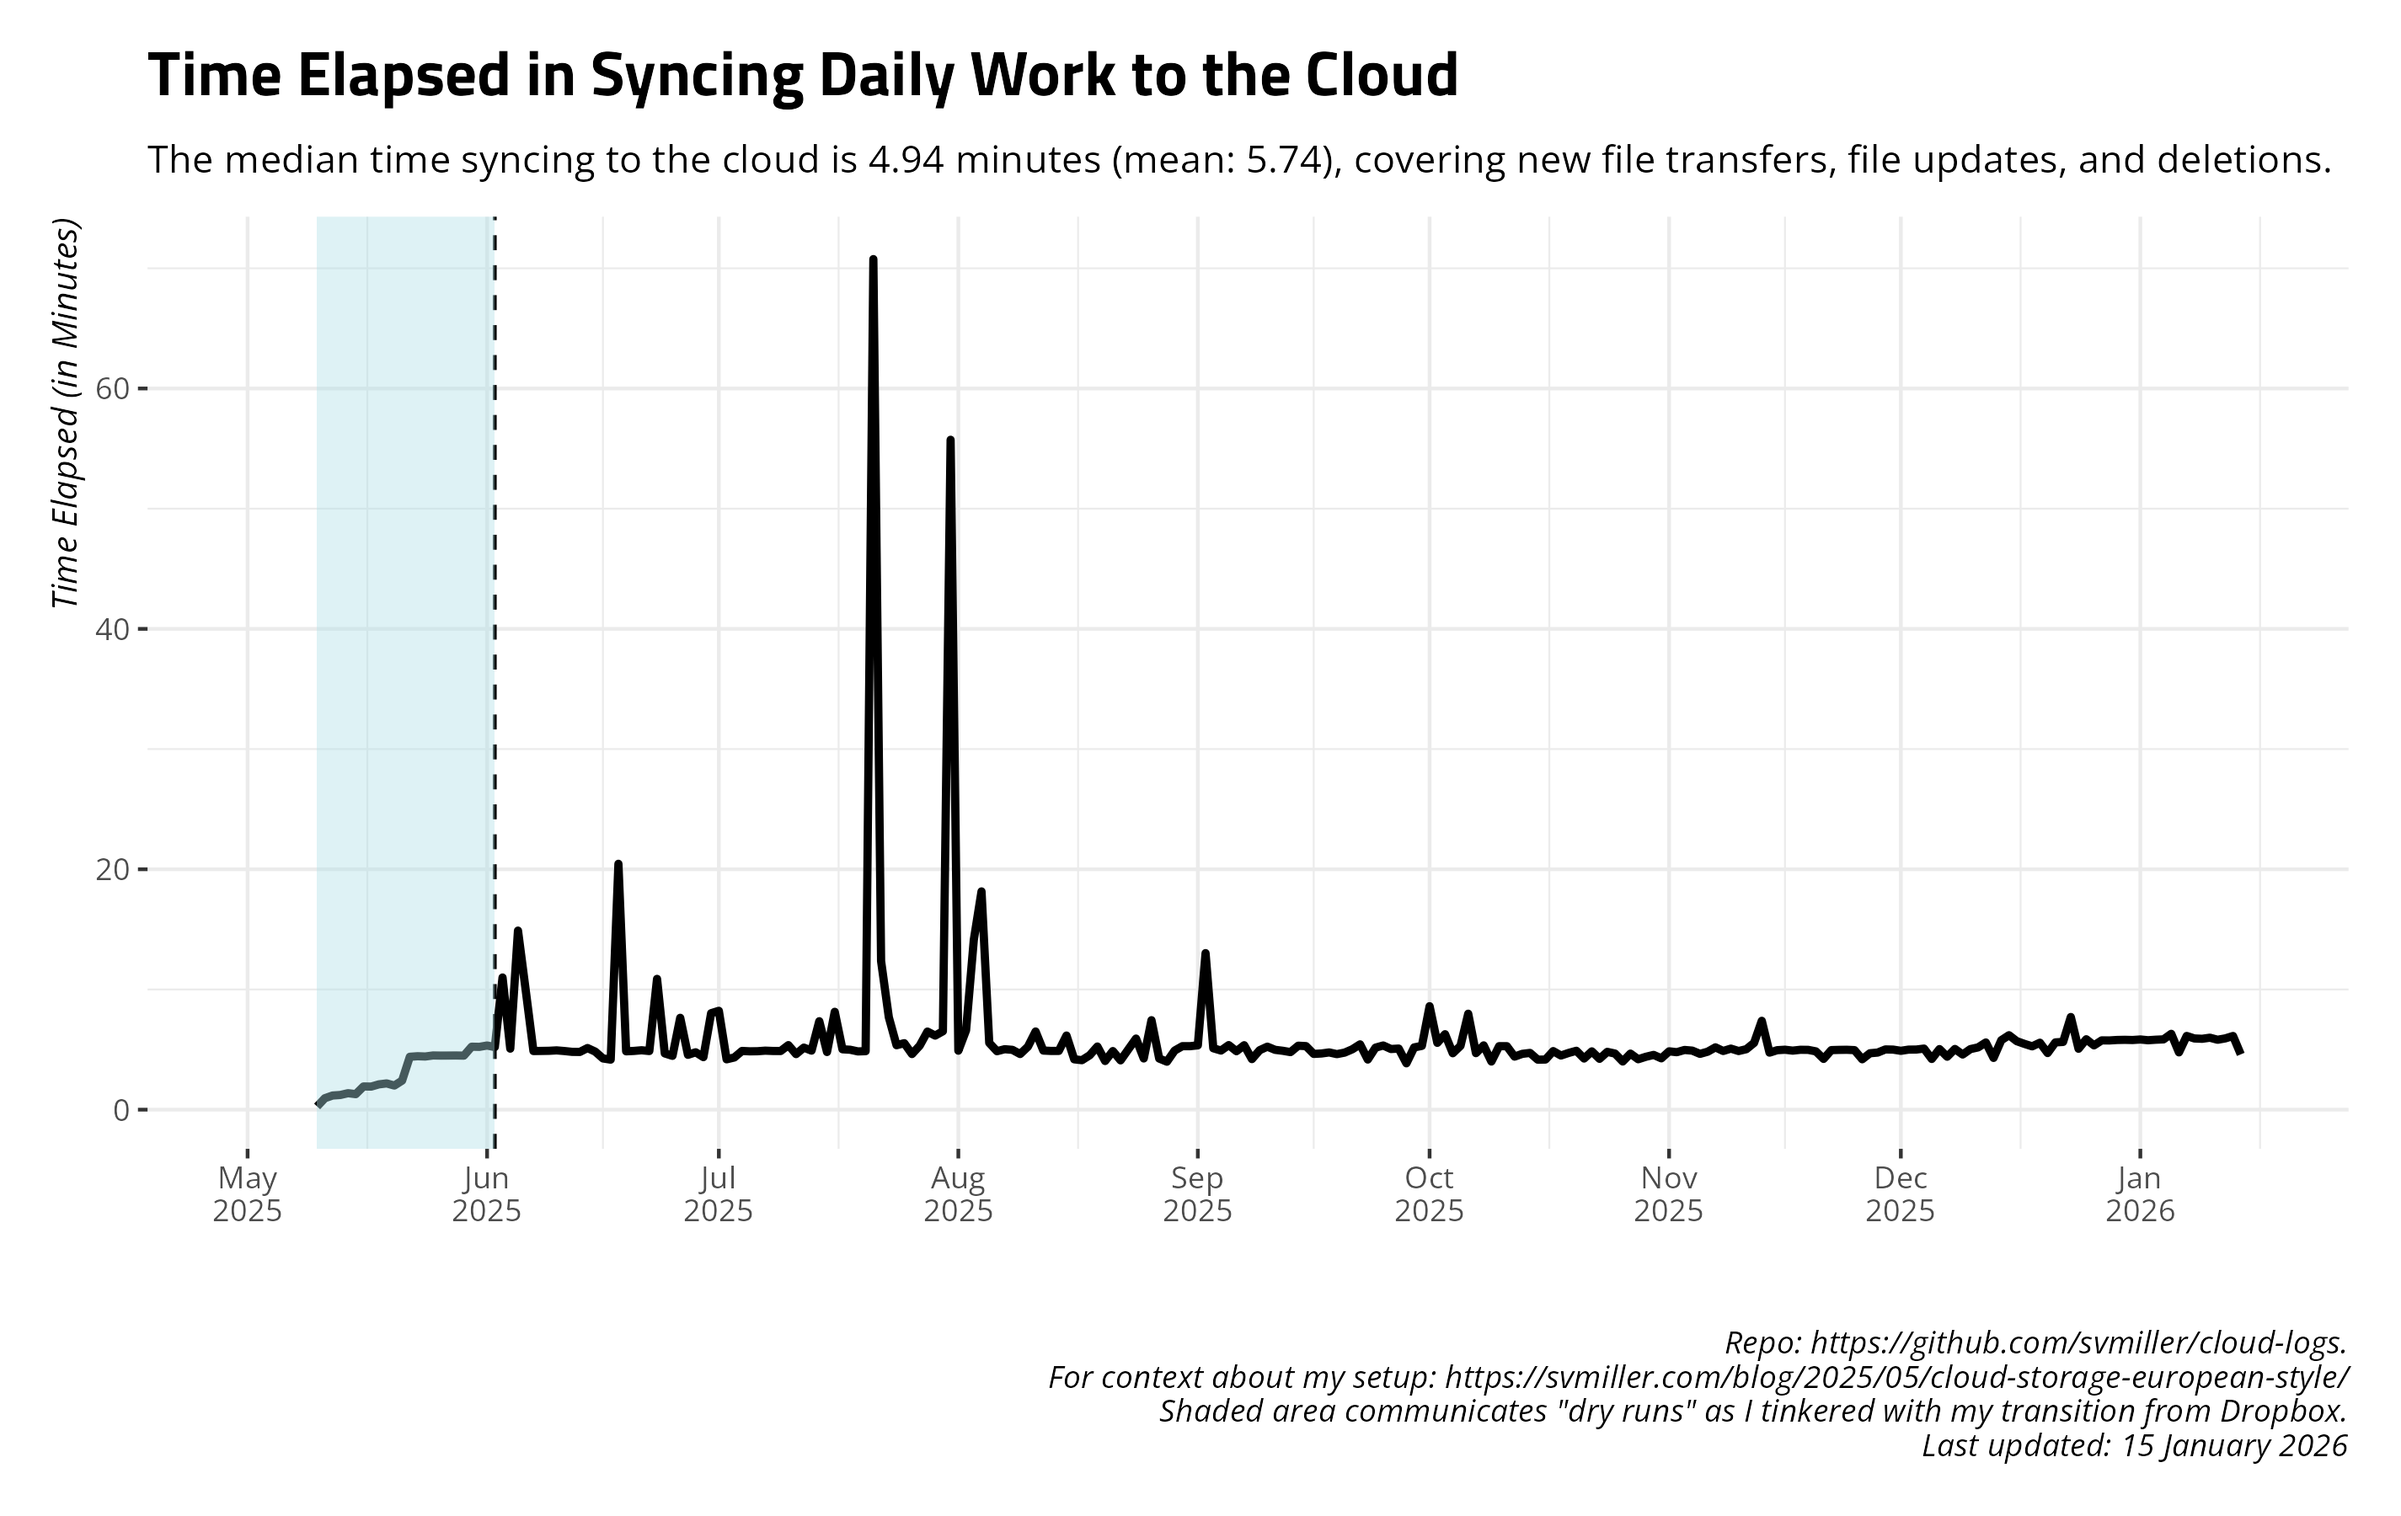
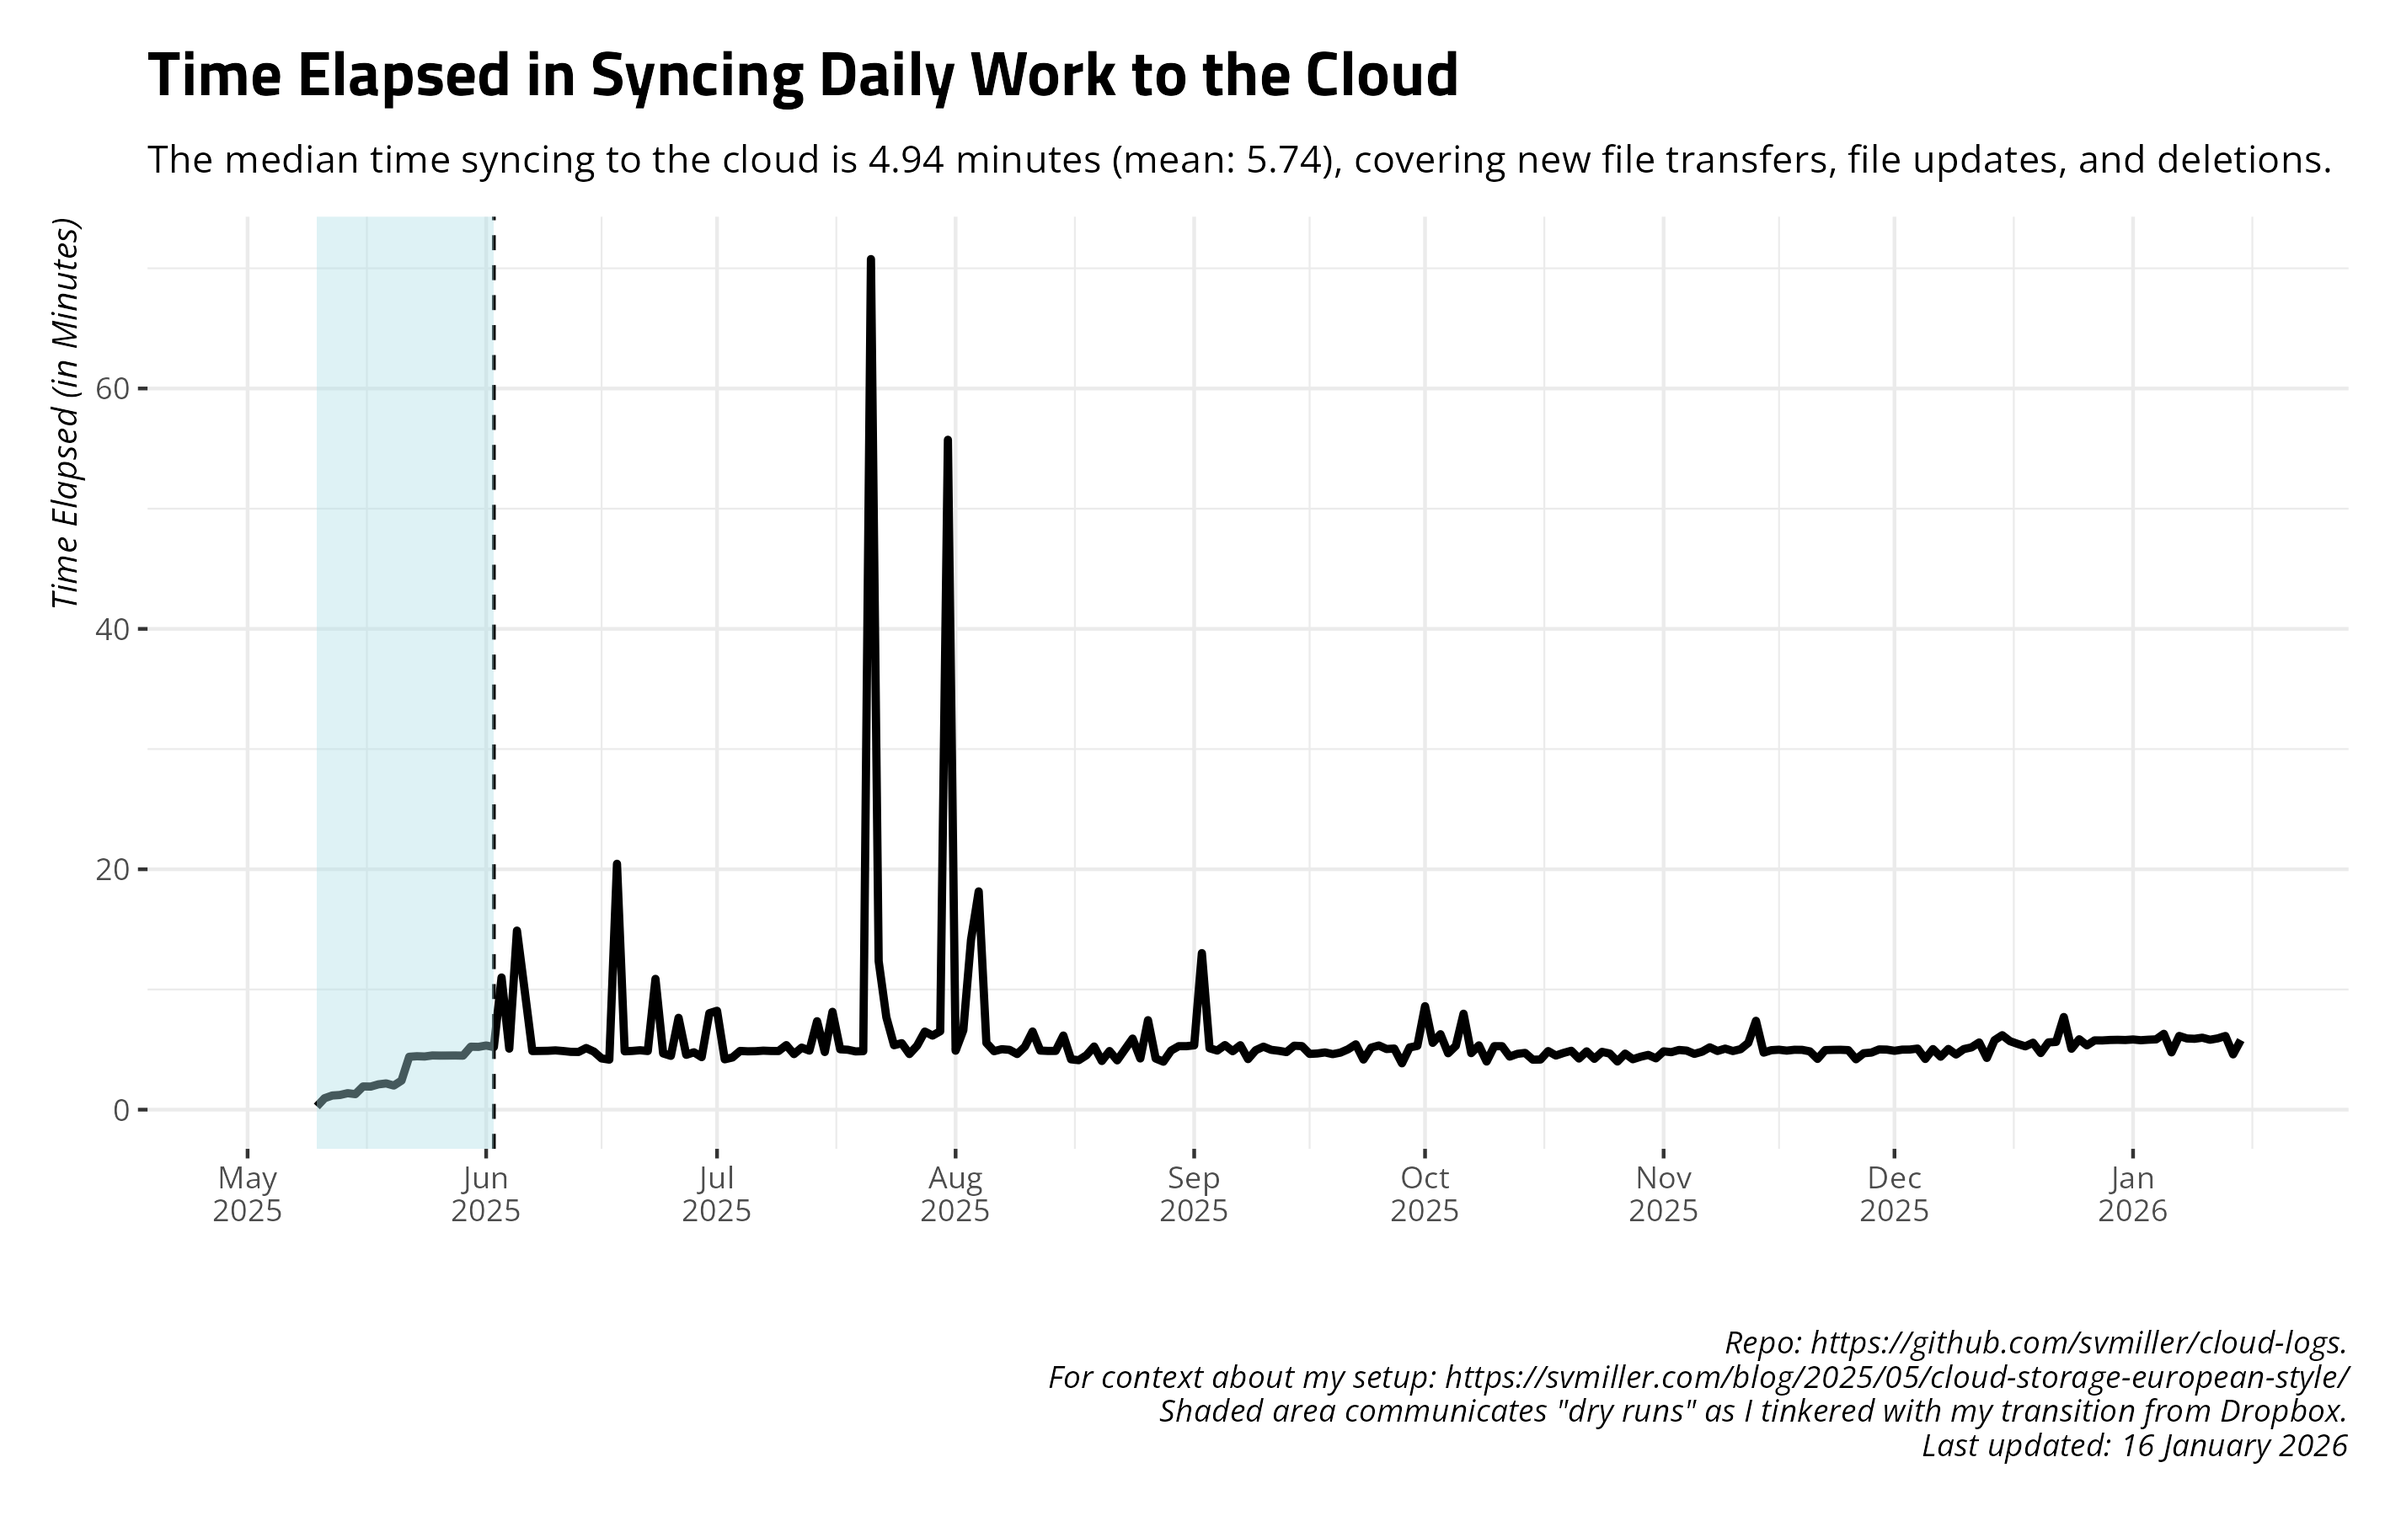
Date: 2026-01-16 09:00:20. Hi mom!

diff --git a/README.md b/README.md
@@ -27,17 +27,17 @@ and uploads to Github.
     #> # A tibble: 14 × 4
     #>    date       ftransfer stransfer   elapsed
     #>    <date>         <dbl> <chr>       <chr>  
-    #>  1 2026-01-01         1 53.897 KiB  5m50.3s
-    #>  2 2026-01-02         1 54.116 KiB  5m46.6s
-    #>  3 2026-01-03        15 11.971 MiB  5m49.2s
-    #>  4 2026-01-04         4 246.865 KiB 5m50.9s
-    #>  5 2026-01-05         4 545.865 KiB 6m18.5s
-    #>  6 2026-01-06        14 126.652 KiB 4m46.0s
-    #>  7 2026-01-07        13 1.440 MiB   6m7.9s 
-    #>  8 2026-01-08         0 <NA>        5m55.4s
-    #>  9 2026-01-09        76 3.544 MiB   5m53.8s
-    #> 10 2026-01-10        27 11.354 MiB  5m59.2s
-    #> 11 2026-01-11         0 <NA>        5m49.0s
-    #> 12 2026-01-12        52 2.182 MiB   5m55.8s
-    #> 13 2026-01-13        77 818.499 KiB 6m7.7s 
-    #> 14 2026-01-14        67 54.182 MiB  4m36.0s
+    #>  1 2026-01-02         1 54.116 KiB  5m46.6s
+    #>  2 2026-01-03        15 11.971 MiB  5m49.2s
+    #>  3 2026-01-04         4 246.865 KiB 5m50.9s
+    #>  4 2026-01-05         4 545.865 KiB 6m18.5s
+    #>  5 2026-01-06        14 126.652 KiB 4m46.0s
+    #>  6 2026-01-07        13 1.440 MiB   6m7.9s 
+    #>  7 2026-01-08         0 <NA>        5m55.4s
+    #>  8 2026-01-09        76 3.544 MiB   5m53.8s
+    #>  9 2026-01-10        27 11.354 MiB  5m59.2s
+    #> 10 2026-01-11         0 <NA>        5m49.0s
+    #> 11 2026-01-12        52 2.182 MiB   5m55.8s
+    #> 12 2026-01-13        77 818.499 KiB 6m7.7s 
+    #> 13 2026-01-14        67 54.182 MiB  4m36.0s
+    #> 14 2026-01-15        24 1.058 MiB   5m47.3s
